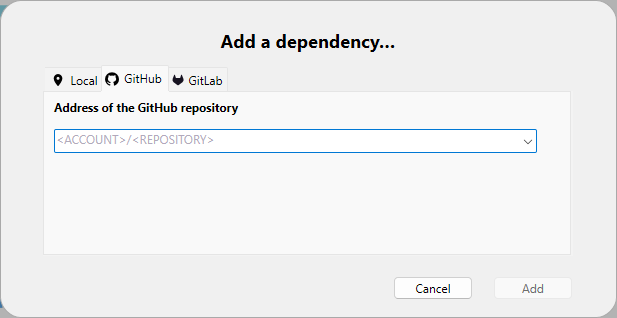
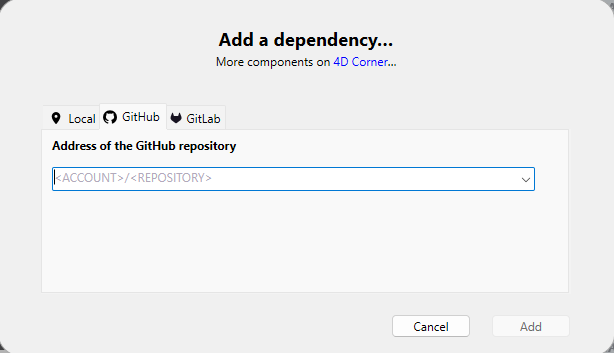
update links, png, added nex §

diff --git a/docs/Extensions/overview.md b/docs/Extensions/overview.md
@@ -11,13 +11,13 @@ The 4D [project architecture](../Project/architecture.md) is open and can be ext
 - [**SQL commands**](../commands/theme/SQL) allow you to connect and use various SQL data sources.
 - The [**built-in HTTP client**](../API/HTTPRequestClass.md) can request any HTTP server and process data.
 - [**Web Areas**](../FormObjects/webArea_overview.md) can give access to web pages or various HTML contents within your forms.  
-- [**Components**](Concepts/components.md). Components are made of 4D code. 4D proposes a set of utility components (see below) that you can install and use depending on your needs. You can also [develop your own 4D components](develop-components.md), or use third-party components. Many developers from the 4D community have shared 4D components (browse Github to have a list of public 4D components gathered with the [`4d-component`](https://github.com/topics/4d-component) topic). 
+- [**Components**](Concepts/components.md). Components are made of 4D code. 4D proposes a set of utility components (see below) that you can install and use depending on your needs. You can also [develop your own 4D components](develop-components.md), or use third-party components. Many developers from the 4D community have shared 4D components. Browse the [**4D Corner platform**](https://corner.4d.com/) to get a comprehensive list of published components. 
 - [**Plug-ins**](../Concepts/plug-ins.md). Plug-ins can be built using any language. Plugins do things that 4D does not natively (e.g., specific platform technology), or would be very hard to write just using 4D. As described in [this page](develop-plug-ins.md), you can develop your own plug-ins. A lot of functionnalities are covered by the existing 4D plug-ins. Browse Github to have a list of public 4D plugins gathered with the [`4d-plugin`](https://github.com/topics/4d-plugin) topic.
 
 
 ## Components developed by 4D
 
-4D proposes various components to the 4D community, covering many development needs. All 4D components can be found on the [**4D github repository**](https://github.com/4d).
+4D proposes various components to the 4D community, covering many development needs. All 4D components can be found on the [**4D Corner platform**](https://corner.4d.com/).
 
 A subset of these components is listed by default in the Github panel of the [Dependency Manager](../Project/components.md#adding-a-github-or-gitlab-dependency), including:
 

diff --git a/docs/Project/components.md b/docs/Project/components.md
@@ -7,7 +7,7 @@ title: Dependencies
 
 The 4D [project architecture](../Project/architecture.md) is modular. You can provide additional functionalities to your 4D projects by installing [**components**](Concepts/components.md) and [**plug-ins**](../Concepts/plug-ins.md). Components are made of 4D code, while plug-ins can be [built using any language](../Extensions/develop-plug-ins.md). 
 
-You can [develop](../Extensions/develop-components.md) and [build](../Desktop/building.md) your own 4D components, or download public components shared by the 4D community that [can be found for example on GitHub](https://github.com/topics/4d-component).
+You can [develop](../Extensions/develop-components.md) and [build](../Desktop/building.md) your own 4D components, or download public components proposed by 4D or the 4D community on the [**4D Corner platform**](https://corner.4d.com/). 
 
 
 Once installed in your 4D environment, extensions are handled as **dependencies** with specific properties. 
@@ -606,6 +606,25 @@ You can modify the [version setting](#defining-a-dependency-version-range) for a
 Modifying the version range is useful for example if you use the automatic update feature and want to lock a dependency to a specific version number. 
 
 
+### Using 4D Corner
+
+The [**4D Corner platform**](https://corner.4d.com/) proposes a comprehensive list of ready-to-use 4D components, proposed from the 4D company or from the 4D community. You can browse or search the list to find any component corresponding to your needs.
+
+![4d-corner](../assets/en/Project/4d-corner.png)
+
+To install a component from the 4D Corner platform:
+
+1. Click on the "Copy link" button on the top left corner of the component tile:
+
+![copy button](../assets/en/Project/4d-corner-copy.png)
+
+2. Open the Dependency manager and click on the **+** button.
+
+The dependency link is automatically added in the address area:
+
+![add dependency](../assets/en/Project/4d-corner-add.png)
+
+3. [Configure the dependency reference](#adding-a-github-or-gitlab-dependency) and click **Add**. 
 
 ### Updating dependencies
 

diff --git a/docs/Extensions/develop-components.md b/docs/Extensions/develop-components.md
@@ -7,7 +7,7 @@ title: Developing Components
 
 A 4D component is a set of 4D functions, methods, and forms representing one or more functionalities that can be [installed and used in 4D applications](Concepts/components.md). For example, you can develop a 4D e-mail component that manages every aspect of sending, receiving and storing e-mails in 4D applications.
 
-You can develop 4D components for your own needs and keep them private. You can also [share your components with the 4D community](https://github.com/topics/4d-component).
+You can develop 4D components for your own needs and keep them private. You can also [propose them to 4D Corner](https://corner.4d.com/) and [share them with the 4D community](https://github.com/topics/4d-component).
 
 
 ## Definitions
@@ -560,4 +560,5 @@ To protect the code of a component effectively, simply [compile and build](Deskt
 
 We encourage you to support the 4D developer community by sharing your components, preferably on the [GitHub platform](https://github.com/topics/4d-component). We recommend that you use the **`4d-component`** topic to be correctly referenced.  
 
+Use the [4D Corner platform](https://corner.4d.com/) to browse among existing components, and to register your own 4D components. 
 

diff --git a/docs/Concepts/components.md b/docs/Concepts/components.md
@@ -9,7 +9,9 @@ A 4D component is a set of 4D code and forms representing one or more functional
 
 Installation and loading of components in your 4D projects are handled through the [4D Dependency manager](../Project/components.md). 
 
-Several components are [developed by 4D](../Extensions/overview.md#components-developed-by-4d), but a lot of 4D components from the 4D community [can be found on GitHub](https://github.com/topics/4d-component). Additionnally, you can [develop your own 4D components](../Extensions/develop-components.md).
+Several components are [developed by 4D](../Extensions/overview.md#components-developed-by-4d), but a lot of 4D components are also proposed by the 4D community. Use the [4D Corner platform](https://corner.4d.com/) to get a detailed list of all available 4D components. 
+
+Additionnally, you can [develop your own 4D components](../Extensions/develop-components.md).
 
 ## Using components
 

diff --git a/docs/Notes/updates.md b/docs/Notes/updates.md
@@ -12,7 +12,7 @@ Read [**What’s new in 4D 21 R5**](https://blog.4d.com/whats-new-in-4d-21-r5/),
 
 - Support of S/MIME email signing through new [`4D.SMTPTransporter`](../API/SMTPTransporterClass.md) class properties: [`.certificate`](../API/SMTPTransporterClass.md#certificate) or [`.certificateName`](../API/SMTPTransporterClass.md#certificatename) (certificate providing), and [`.certificatePassword`](../API/SMTPTransporterClass.md#certificatepassword).
 - Support of list forms in [**fluent UI** rendering](../FormEditor/forms.md#fluent-ui-rendering) on Windows. 
-
+- New [4D Corner platform](https://corner.4d.com/) that lists 4D components provided by 4D or proposed by the community.  
 - [**Fixed bug list**](https://bugs.4d.fr/fixedbugslist?version=21_R5): list of all bugs that have been fixed in 4D 21 R5.  
 
 
